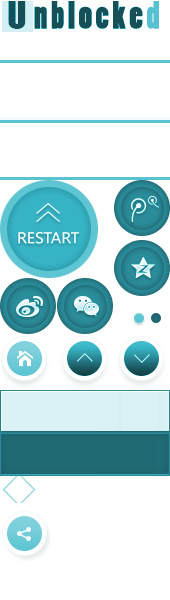
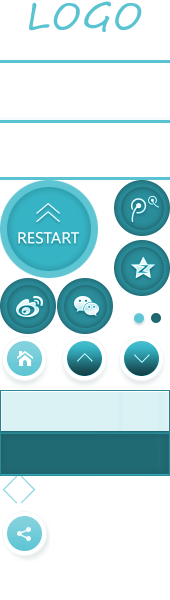
add lazylinepainter and change images

Changed region(s): [[0.0, 0.0, 0.9412, 0.06]]

diff --git a/js/jquery.lazylinepainter-1.4.1.min.js b/js/jquery.lazylinepainter-1.4.1.min.js
@@ -1,0 +1,18 @@
+/* 
+* Lazy Line Painter 1.4.1
+* SVG Stroke animation.
+*
+* https://github.com/camoconnell/lazy-line-painter
+* http://www.camoconnell.com
+*
+* Copyright 2013 Cam O'Connell
+* Licensed under the MIT license.
+*  
+*/ 
+(function(e,r,p){var l={init:function(c){return this.each(function(){var a=e(this),b=a.data("lazyLinePainter");a.addClass("lazy-line");if(!b){var b=e.extend({width:null,height:null,strokeWidth:2,strokeColor:"#000",strokeCap:"round",strokeJoin:"round",strokeOpacity:1,strokeDash:null,onComplete:null,delay:null,overrideKey:null},c),h=null===b.overrideKey?a.attr("id").replace("#",""):b.overrideKey,f=b.svgData[h].dimensions.width,k=b.svgData[h].dimensions.height;b.svgData=b.svgData[h].strokepath;null===
+b.width&&(b.width=f);null===b.height&&(b.height=k);h=a.attr("id");f=new Raphael(h,f,k);a.data("lazyLinePainter",{svgData:b.svgData,width:b.width,height:b.height,strokeWidth:b.strokeWidth,strokeColor:b.strokeColor,strokeCap:b.strokeCap,strokeJoin:b.strokeJoin,strokeOpacity:b.strokeOpacity,strokeDash:b.strokeDash,onComplete:b.onComplete,delay:b.delay,overrideKey:b.overrideKey,paper:f,count:1,complete:!1,playhead:0,setTimeOutHandler:[]})}})},paint:function(){return this.each(function(){var c=e(this),
+a=c.data("lazyLinePainter"),b=function(){c.css({width:a.width,height:a.height});e.each(a.svgData,function(b,f){var e=a.paper.path(f.path);e.attr({stroke:"none","stroke-width":a.strokeWidth,"fill-opacity":0});var g=setTimeout(function(){n({count:a.count,canvas:a.paper,pathstr:e,duration:f.duration,attr:m(a,f),callback:function(b){a.setTimeOutHandler.splice(a.count,1);a.count++;a.svgData.length+1==a.count&&(a.complete=!0,null!==a.onComplete&&a.onComplete.call(c))}})},a.playhead);a.playhead+=f.duration;
+a.setTimeOutHandler.push(g)})};null===a.delay?b():setTimeout(b,a.delay)})},erase:function(){return this.each(function(){var c=e(this);c.find("svg").empty();d=c.data("lazyLinePainter");for(i=0;i<d.setTimeOutHandler.length;i++)clearTimeout(d.setTimeOutHandler[i]);d.playhead=0;d.count=0;d.complete=!1})},destroy:function(){return this.each(function(){var c=e(this);c.data("lazyLinePainter");c.removeData("lazyLinePainter");c.remove()})},stamp:function(){return this.each(function(){var c=e(this),a=c.data("lazyLinePainter"),
+b=function(){c.css({width:a.width,height:a.height});for(i=0;i<a.svgData.length;i++)a.paper.path(a.svgData[i].path).attr(m(a,a.svgData[i]))};null===a.delay?b():setTimeout(b,a.delay)})}},m=function(c,a){return{stroke:a.strokeColor?a.strokeColor:c.strokeColor,"fill-opacity":0,"stroke-dasharray":a.strokeDash?a.strokeDash:c.strokeDash,"stroke-opacity":a.strokeOpacity?a.strokeOpacity:c.strokeOpacity,"stroke-width":a.strokeWidth?a.strokeWidth:c.strokeWidth,"stroke-linecap":a.strokeCap?a.strokeCap:c.strokeCap,
+"stroke-linejoin":a.strokeJoin?a.strokeJoin:c.strokeJoin}},n=function(c){var a=c.canvas,b=c.pathstr,e=c.duration,f=c.attr,k=c.callback,g;g="string"==typeof b?a.path(b).attr({stroke:"none",fill:"none"}):b;var l=a.path(g.getSubpath(0,1)).attr(f),m=g.getTotalLength(g);g.getPointAtLength(0);var n=(new Date).getTime(),q=setInterval(function(){var a=(new Date).getTime()-n,b=g.getSubpath(0,a/e*m);f.path=b;l.animate(f,25);a>=e&&(clearInterval(q),k!==p&&k(),g.remove())},25)};e.fn.lazylinepainter=function(c){if(l[c])return l[c].apply(this,
+Array.prototype.slice.call(arguments,1));if("object"===typeof c||!c)return l.init.apply(this,arguments)}})(jQuery,window);

diff --git a/index.html b/index.html
@@ -34,13 +34,12 @@
         <div id="m-intro" class="m-intro m-block">
             <div class="wrap">
                 <div class="posr mi-bg">
-                    <span class="dsj"><a title="大事记" href="http://www.adtime.com/about#J_3">大事记</a></span>
-                    <span class="gszx"><a title="公司资讯" href="http://www.adtime.com/news">公司资讯</a></span>
-                    <span class="gsjj"><a title="公司简介" href="http://www.adtime.com/about#J_0">公司简介</a></span>
-                    <span class="gsln"><a title="公司理念" href="http://www.adtime.com/about#J_1">公司理念</a></span>
-                    <span class="jrwm"><a title="加入我们" href="http://www.adtime.com/about#J_5">加入我们</a></span>
-                    <span class="lxwm"><a title="联系我们" href="http://www.adtime.com/about#J_6">联系我们</a></span>
-                    <div class="u-glass" id="u-glass"></div>
+                    <span class="dsj"><a title="大事记" href="#">大事记</a></span>
+                    <span class="gszx"><a title="公司资讯" href="#">公司资讯</a></span>
+                    <span class="gsjj"><a title="公司简介" href="#">公司简介</a></span>
+                    <span class="gsln"><a title="公司理念" href="#">公司理念</a></span>
+                    <span class="jrwm"><a title="加入我们" href="#">加入我们</a></span>
+                    <span class="lxwm"><a title="联系我们" href="#">联系我们</a></span>
                 </div>
             </div>
         </div>
@@ -109,17 +108,19 @@
                 <a class="s-ttweibo" target="_blank" href="http://user.qzone.qq.com/1613836101"></a>
             </div>
             <div class="footer-text">
-                昂德投资股份有限公司 Copyright © 2005-2013 Unblocked Corporation All Right Reserved 川ICP备13215509号-1
+                XX有限公司 Copyright © 2005-2013 XX Corporation All Right Reserved 川ICP备13215509号-1
             </div>
         </div>
     </footer>
 </div>
 
 
-<script src="http://libs.baidu.com/jquery/1.10.1/jquery.js"></script>
-    <script type="text/javascript" src="http://cdn.adt100.com/apps/official/6553/js/jquery.parallax-1.1.3.js"></script>
-    <script type="text/javascript" src="http://cdn.adt100.com/apps/official/6553/js/jquery.localscroll-1.2.7.min.js"></script>
-    <script type="text/javascript" src="http://cdn.adt100.com/apps/official/6553/js/jquery.scrollTo-1.4.2.min.js"></script>
+    <script src="http://libs.baidu.com/jquery/1.10.1/jquery.js"></script>
+    <script type="text/javascript" src="js/jquery.parallax-1.1.3.js"></script>
+    <script type="text/javascript" src="js/jquery.localScroll.min.js"></script>
+    <script type="text/javascript" src="js/jquery.scrollTo.min.js"></script>
+    <script src="http://cdnjs.cloudflare.com/ajax/libs/raphael/2.1.0/raphael-min.js"></script>
+    <script src="js/jquery.lazylinepainter-1.4.1.min.js"></script>
     <script type="text/javascript" src="js/common.js"></script>
 </body>
 </html>

diff --git a/css/common.css b/css/common.css
@@ -70,7 +70,7 @@ a:hover {color:#333;text-decoration:none;}
 /* =S home main */
 .bg-fixed { background-attachment: fixed;}
 .m-index { height: 797px; background: url("../images/chameleon.png") no-repeat scroll 10% 100% transparent;}
-.m-intro { height: 653px; background: url("../images/id-intro-bg.jpg") no-repeat scroll center 50px;}
+.m-intro { height: 653px; background: url("../images/id-intro-bg.png") no-repeat scroll center 50px;}
 .m-service { height: 725px; }
 .m-research { height: 644px; background: url(../images/bg-home-main-research.png) no-repeat center; }
 .m-platform { height: 619px; background: url(../images/bg-home-main-platform.png) no-repeat center;}
